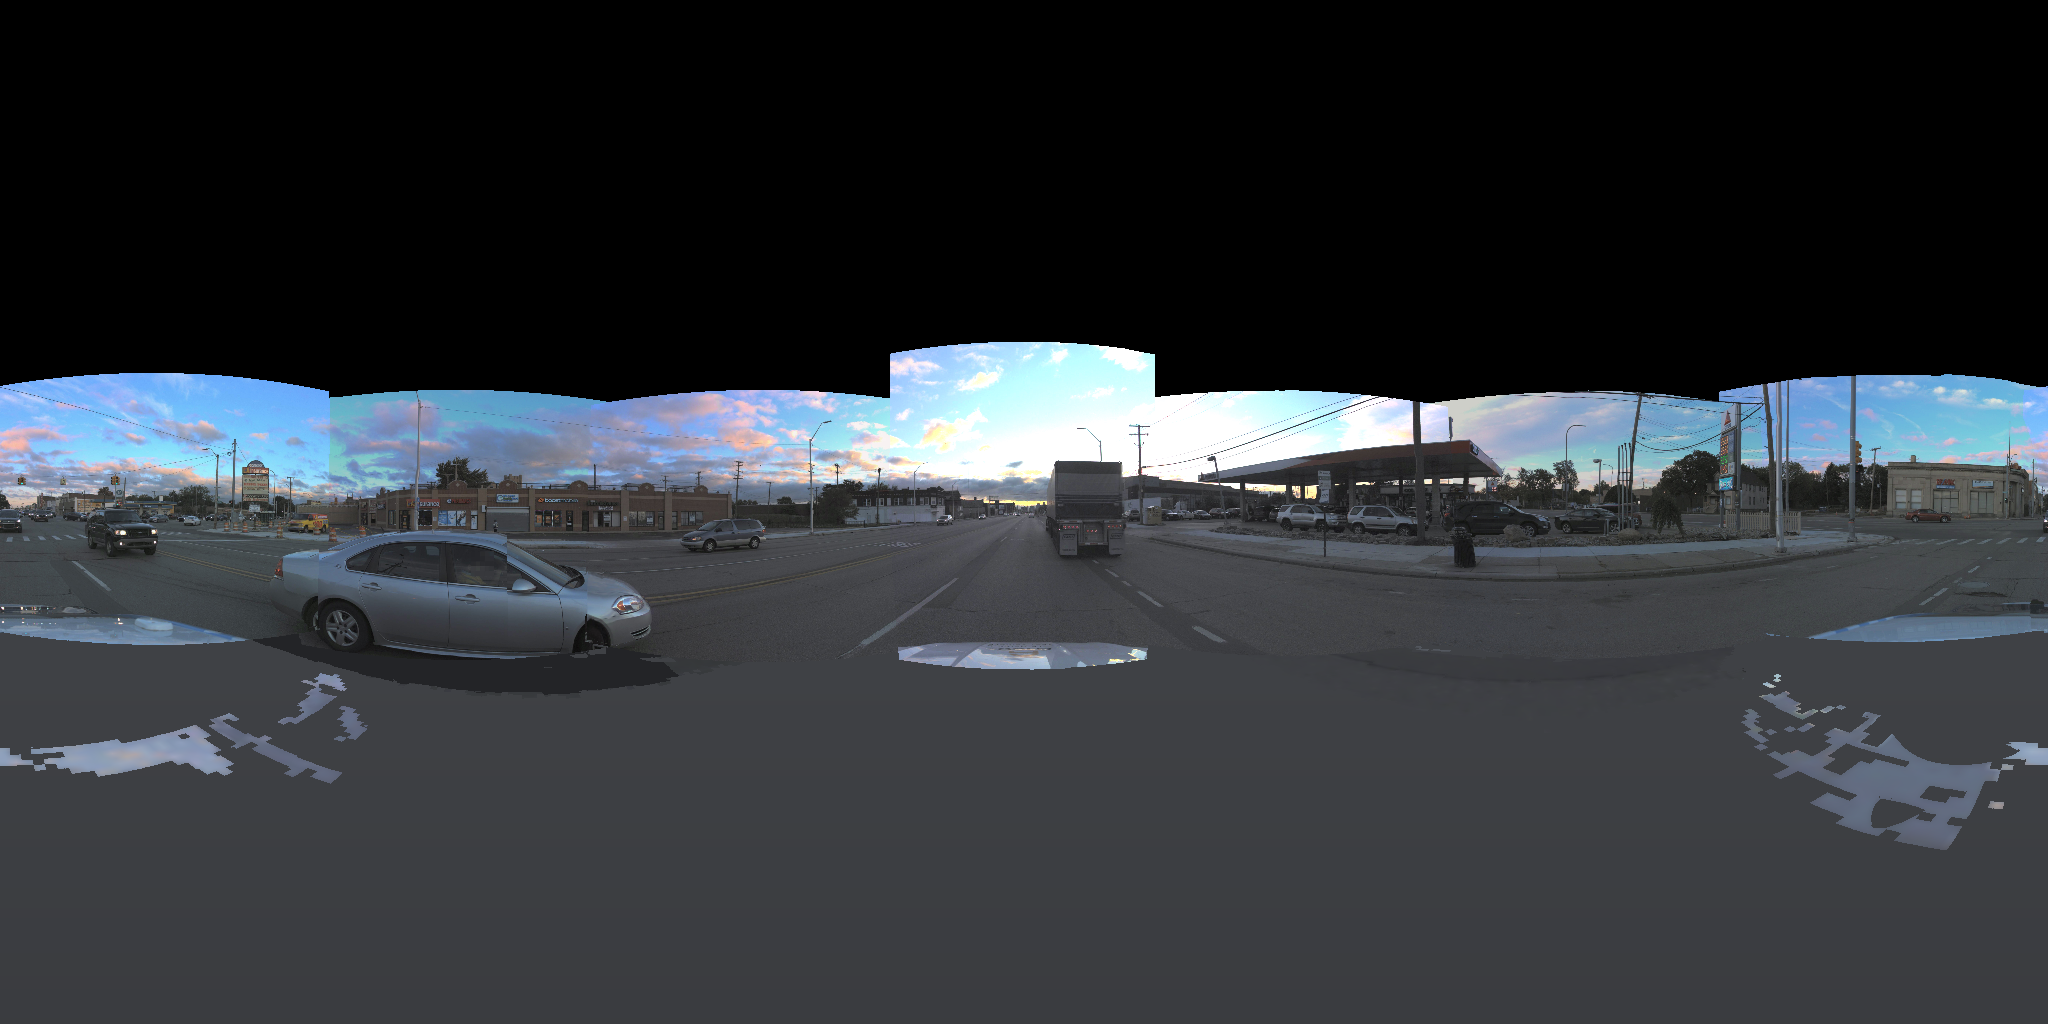
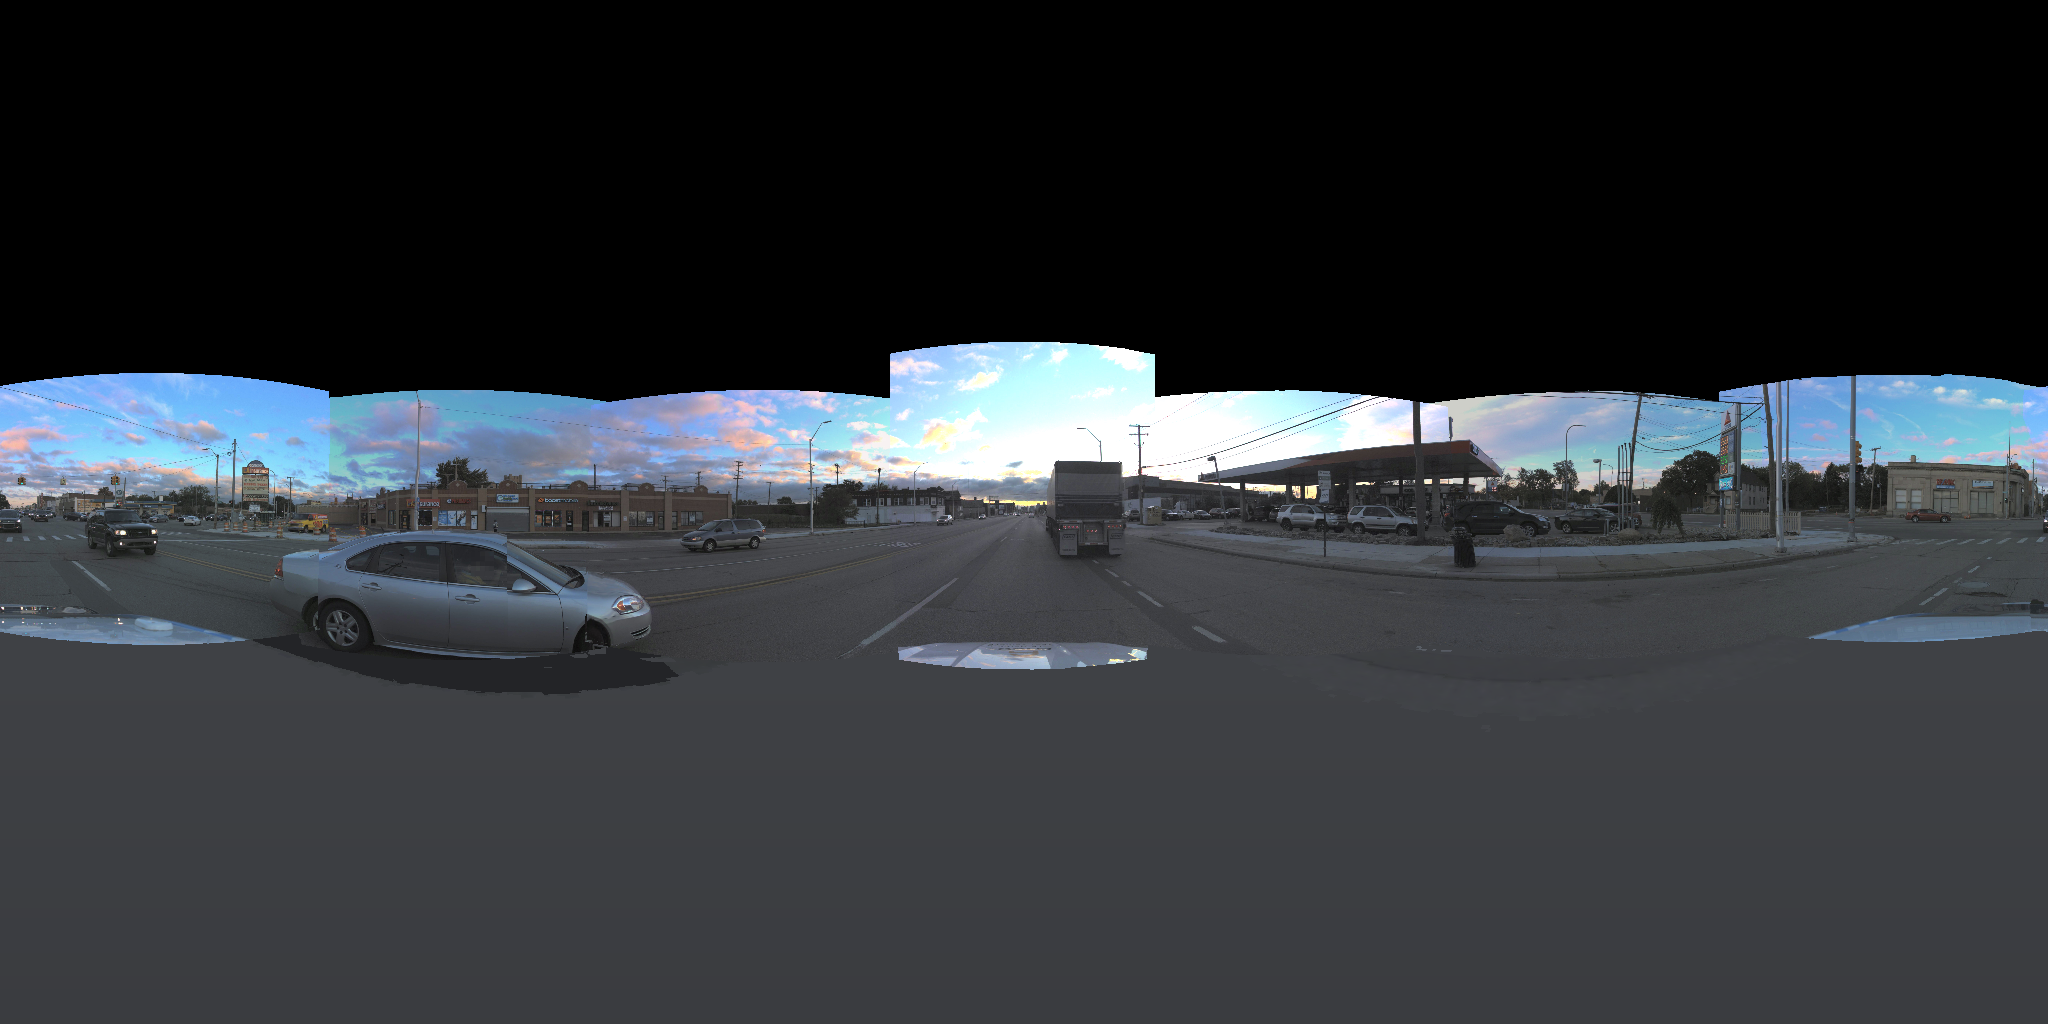
DB-109 B1 wide-window: narrow-window hypothesis WRONG; naive grid fails on the trajectory band (the cap)
Wide window (225-317) made cap onok WORSE (6.2->3.6%): a309's cap = the ego trajectory band, which
naive all-frame spread-median pollutes (transient cars + grazing-angle diversity, onok falls as frames
grow). The world map's 74% ok is the easy side/far road, NOT a309's blind nadir. Single-frame nomove
got 81.9% on the same cap -> the cap IS fillable; the naive world-grid is the wrong vehicle. B redesign:
B-grid (robust per-cell fusion) vs B-coherence (keep per-pixel reprojection + world-anchored single source).

Changed region(s): [[0.8438, 0.6562, 1.0, 0.8438], [0.0, 0.6562, 0.1875, 0.7812], [0.1562, 0.75, 0.1875, 0.7812]]

diff --git a/agent/progress.md b/agent/progress.md
@@ -1,5 +1,13 @@
 # Waymo2Panorama Progress
 
+> ### 2026-06-24 ◆ DB-109 B1 wide-window — "narrow window" hypothesis WRONG (wide 225-317 made cap onok WORSE 6.2%→3.6%); root = naive grid accumulation FAILS on the trajectory-line band = exactly the cap; world map's 74% ok is the EASY side-road
+> **Wide window (225-317, 93 frames): world map = 74.2% ok (even higher) but cap onok DROPPED to 3.6% (narrow 28-frame was 6.2%). My "too narrow / missing 20-28 m sources" diagnosis was WRONG — more frames made the cap WORSE (honest correction).** Coverage map (`wbev_a309_wide_worldcov.png`, eye-verified): a horizontal black CAPSULE along the ego trajectory = the cap's region (ego's own car over many frames + the trajectory-line near-ground only seen grazing). The 74% green is the side/far road; a309's CAP (its blind nadir = the trajectory band) lands on this black capsule.
+> **Real finding: naive grid accumulation BUILDS a nice road map but FAILS on exactly the band the cap needs.** Two compounding causes: (1) more frames → more transient-car samples + more grazing-angle/exposure diversity per cell → spread inflated → not-ok (onok FALLS as frames grow, 6.2→3.6); (2) flat-Z grid + 6 cm discretisation loses the per-pixel grazing precision. **CONTRAST: single-frame nomove got 81.9% on the SAME a309 cap** — per-pixel reprojection to bucketed cand frames (disp 5-58 m, time-nearest 3/bucket) keeps it; the all-frame grid spread-median throws it away. So a309's cap IS fillable (81.9% proven); the naive world-grid is the WRONG VEHICLE.
+> **B needs a redesign — two paths:** **(B-grid)** robust per-cell fusion: per-cell LiDAR-Z (not flat) + reject transient-car/grazing outliers + pick a consistent time-nearest subset (mirror single-frame's bucketing) → recover the trajectory band. **(B-coherence)** DROP the grid: keep single-frame's per-pixel reprojection (81.9% coverage) but add cross-frame consistency — every WORLD ground point picks ONE global source used by ALL target frames → temporal coherence WITHOUT the discretisation/accumulation coverage loss. B-coherence likely better (keeps the 81.9%, only adds coherence; no spread-pollution).
+> **Honest status:** "physical wall disproved" (Stage-1) STANDS; but B's naive accumulation does NOT auto-solve the cap — the cap = the trajectory band, the hardest part, and simple spread-median over many frames pollutes it. The world-BEV branch (`GROUND_MODE="worldbev"`) is committed as a working accumulator but the cap-fill needs the redesign. Evidence: `wbev_a309_wide_{worldmap,worldcov}.png` + the narrow `wbev_a309_*`.
+> **NEXT (user co-decide):** B-grid (robust fusion) vs B-coherence (per-pixel reprojection + world-anchored single-source selection).
+> ---
+
 > ### 2026-06-24 ◆ DB-109 B (world-BEV mosaic) — B1 FIRST RUN: accumulation WORKS (world map = 71% real road over the window); cap-sampling 6.2% bug = WINDOW TOO NARROW (no 20-28m sources); wide-window re-run in flight
 > **Implemented `GROUND_MODE="worldbev"` (additive new branch + `WORLDBEV_WIN` flag): build ONE world-fixed BEV ground map over a FIXED anchor window, accumulate ALL window frames (spread-dominant, NO moving box-gate = Stage-1c folds in, nvalid≥2 guard), each target anchor samples the SAME map → temporal coherence by construction. Ran a309, window 290-317 (28 frames). Payload now ~108 KB (gzip-inject still fine).**
 > **PROVEN — the accumulation CONCEPT works:** the world map (795×602 @ 6 cm/px) = **71% ok cells = a real road mosaic** (eye-verified `wbev_a309_worldmap.png`: real asphalt + lane-line diagonals; black holes = the cars' positions, correctly held by spread/nvalid). vs single-frame a309 5.6% real → accumulation recovers the road as hoped.
